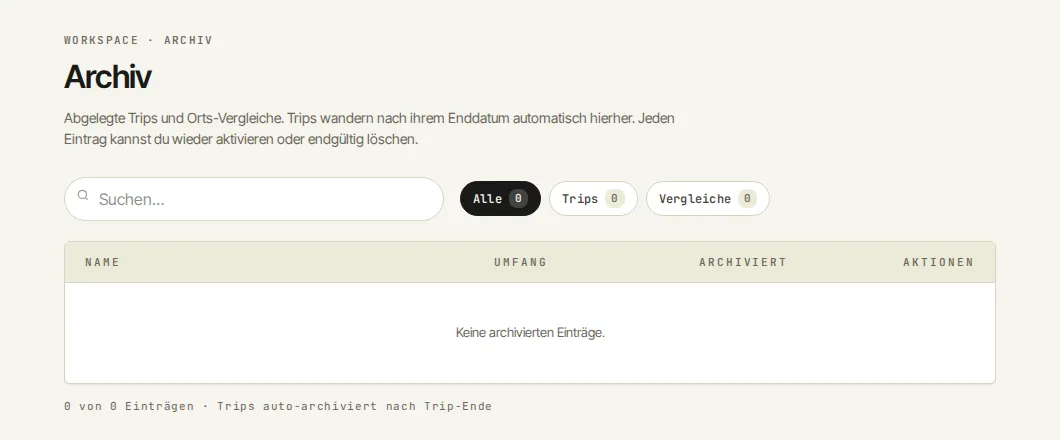
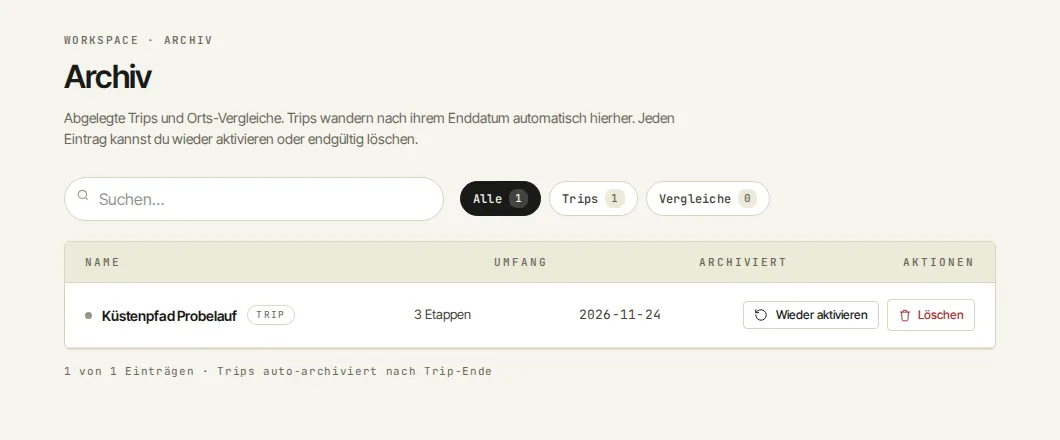
feat(#3327): Archiv-Trip im Pruefkonto-Seed, Archiv-Bild DE/EN neu
Seed legt den fiktiven Trip "Kuestenpfad Probelauf" (3 vergangene Etappen)
an und archiviert ihn genau einmal per PATCH /api/trips/{id}/state;
Folgelaeufe schreiben nichts, archived_at bleibt erhalten. Archiv-Bilder
DE/EN nach Seed-Lauf auf Staging neu aufgenommen, Alt-Texte und Runbooks
nachgezogen. Adversary VERIFIED (F001/F002 Textkorrektur).

Refs #3327

diff --git a/scripts/staging_pruefkonto_mockupdaten.py b/scripts/staging_pruefkonto_mockupdaten.py
@@ -58,6 +58,9 @@ _LIVE_SMS_SCHLUESSEL = "GZ_SEVEN_API_KEY"
 
 TRIP_ID = "gz2967-gr221-mallorca"
 TRIP_NAME = "GR221 Mallorca"
+# #3327: zweiter, frei erfundener Trip, der archiviert im Pruefkonto liegt (Archiv-Bild).
+ARCHIV_TRIP_ID = "gz2967-archiv-kuestenpfad"
+ARCHIV_TRIP_NAME = "Küstenpfad Probelauf"
 VORLAGE_NAME = "Mallorca Frühling"
 VERGLEICH_NAME = "Münsterland"
 # Fiktive, eindeutige Kanalwerte des Pruefkontos (kein Versand an echte Geraete).
@@ -112,6 +115,12 @@ _ETAPPEN = (
      ("Valldemossa", 39.69217, 2.57649, 420)),
     ("2026-02-26", ("Valldemossa", 39.69217, 2.57649, 420), (39.71919, 2.6108, 647),
      ("Deià", 39.74619, 2.64514, 150)),
+)
+# #3327: fiktive Etappen in der Vergangenheit (Datum, Start, Ziel).
+_ARCHIV_ETAPPEN = (
+    ("2026-06-12", ("Dünenhof", 54.1012, 8.6034, 4), ("Leuchtturm", 54.1265, 8.6511, 12)),
+    ("2026-06-13", ("Leuchtturm", 54.1265, 8.6511, 12), ("Deichkrug", 54.1508, 8.7023, 6)),
+    ("2026-06-14", ("Deichkrug", 54.1508, 8.7023, 6), ("Fährhafen", 54.1741, 8.7489, 3)),
 )
 _ORTE = (("gz2967-muenster", "Münster", 51.9607, 7.6261, 60),
          ("gz2967-telgte", "Telgte", 51.9819, 7.7856, 52),
@@ -257,6 +266,18 @@ def soll_trip() -> dict:
             _wegpunkt(sid, 1, *von), _wegpunkt(sid, 2, f"Anstieg {von[0]}", *mitte),
             _wegpunkt(sid, 3, *bis)]})
     return {"id": TRIP_ID, "name": TRIP_NAME, "region": "Mallorca", "stages": etappen}
+
+
+def soll_archiv_trip() -> dict:
+    """#3327: fiktiver Archiv-Trip ohne Kanal-/Wetter-/Tabellenkonfiguration. Nie
+    ``archived_at`` im Soll: ``_merge`` uebernimmt es aus dem Ist-Stand (PUT reaktiviert nicht)."""
+    etappen = []
+    for n, (datum, von, bis) in enumerate(_ARCHIV_ETAPPEN, start=1):
+        sid = f"{ARCHIV_TRIP_ID}-e{n}"
+        etappen.append({"id": sid, "name": f"{von[0]} → {bis[0]}", "date": datum,
+                        "waypoints": [_wegpunkt(sid, 1, *von), _wegpunkt(sid, 2, *bis)]})
+    return {"id": ARCHIV_TRIP_ID, "name": ARCHIV_TRIP_NAME, "region": "Nordsee (fiktiv)",
+            "stages": etappen}
 
 
 def soll_kanalauswahl_trip() -> dict:
@@ -407,6 +428,12 @@ class PruefkontoSeed:
             return ist
         return self._rufe("PUT", f"{sammlung}/{soll['id']}", _merge(ist, soll))[1]
 
+    def sichere_archiviert(self, trip: dict) -> None:
+        """#3327: nur ohne Archivdatum archivieren (Body ``archived``, nicht ``state``)."""
+        if trip.get("archived_at"):
+            return
+        self._rufe("PATCH", f"/api/trips/{trip['id']}/state", {"archived": True})
+
     def sichere_wetter(self, trip: dict) -> dict:
         ist = trip.get("display_config") or {}
         soll = soll_wetter()
@@ -511,6 +538,7 @@ def fuehre_seed(seed: PruefkontoSeed, nutzer: str, passwort: str) -> tuple[str, 
     empfaenger = soll_empfaenger(profil)  # vor jedem Schreibzugriff
     seed.sichere_tarif()  # vor den Datensaetzen: sonst Free-Quote (409 quota_exceeded)
     trip = seed.sichere_datensatz("/api/trips", {**soll_trip(), **soll_kanalauswahl_trip()})
+    seed.sichere_archiviert(seed.sichere_datensatz("/api/trips", soll_archiv_trip()))
     seed.sichere_vorlage(seed.sichere_wetter(trip))
     orte = [seed.sichere_datensatz("/api/locations", {
         "id": oid, "name": name, "lat": lat, "lon": lon, "elevation_m": hoehe,

diff --git a/tests/tdd/test_staging_pruefkonto_mockupdaten.py b/tests/tdd/test_staging_pruefkonto_mockupdaten.py
@@ -301,8 +301,11 @@ class _Fake:
             if (teile[1] == "trips" and methode == "PUT" and len(teile) == 3
                     and (ablage.get(teile[2]) or {}).get("archived_at")
                     and not body.get("archived_at") and _quote_voll(konto, "trips")):
-                # trip.go:293: PUT ohne archived_at auf archivierten Trip = Reaktivierung,
-                # Quote geprueft (der PUT selbst ersetzt und entfernt archived_at).
+                # Bewusst STRENGER als Go: der echte PUT (UpdateTripHandler) merged auf den
+                # Bestand, sein DTO kennt kein archived_at, er reaktiviert nie. Reaktivieren
+                # kann nur der POST-Upsert (CreateTripHandler, `reaktiviert := ...`, mit
+                # Quoten-Pruefung). Der Fake ersetzt beim PUT und entfernt archived_at; so
+                # faellt auf, falls der Seed archived_at je aus dem Soll verliert.
                 return 409, {"error": "quota_exceeded"}
             if teile[1] == "trips" and len(teile) == 4 and teile[3] == "weather-config":
                 trip = ablage.get(teile[2])
@@ -1321,7 +1324,8 @@ def test_3151_ac3_zweiter_lauf_schreibfrei_trotz_go_ableitung_von_alert_channels
     mod = _modul()
     server, env = fake
     assert _lauf(mod, server, env) == 0
-    (trip,) = _seed_daten(server)["trips"].values()
+    # #3327: zweiter (archivierter) Trip im Pruefkonto - den GR221-Trip per ID waehlen.
+    trip = _seed_daten(server)["trips"]["gz2967-gr221-mallorca"]
     (vgl,) = _seed_daten(server)["compare"].values()
     # Voraussetzung: Kanalauswahl steht (sonst waere "schreibfrei" trivial)
     assert vgl.get("alert_channel_thresholds") == SCHWELLEN_3151

diff --git a/docs/specs/modules/feat_3327_archiv_seed.md b/docs/specs/modules/feat_3327_archiv_seed.md
@@ -28,7 +28,7 @@ Das Bild „Archiv“ auf der Funktionsseite zeigt heute ein leeres Archiv und e
 > **Querschnitts-Prüfpunkte:**
 > - **Trip/Orts-Vergleich-Teilung:** n/a. Es entsteht kein UI-Baustein; ein Prüfwerkzeug füllt das Prüfkonto, die Archiv-Seite bleibt unverändert.
 > - **Mandantentrennung:** Der Seed schreibt nur unter der Anmeldung des eigenen Prüfkontos und nur auf die feste eigene ID `gz2967-archiv-kuestenpfad`; `user_id` kommt aus dem Auth-Kontext der API, nie `"default"`. Der bestehende Zwei-Nutzer-Test des Seeds (AC-10 aus #2967) deckt den neuen Trip mit ab.
-> - **Kanäle:** Kein Briefing- oder Alarm-Inhalt ändert sich. Der Archiv-Trip bekommt bewusst keine Kanal- und keine Wetterkonfiguration und erzeugt, weil archiviert und in der Vergangenheit liegend, keinen Versand über E-Mail, Telegram, SMS oder Premium-SMS.
+> - **Kanäle:** Kein Briefing- oder Alarm-Inhalt ändert sich. Der Seed sendet für den Archiv-Trip bewusst keine Wetter-, Kanal- oder Tabellenkonfiguration; Go vergibt bei der Neuanlage ohne `display_config` die Standardvorlage des Nutzers (#2794), das ist folgenlos. Der Trip erzeugt, weil archiviert und in der Vergangenheit liegend, keinen Versand über E-Mail, Telegram, SMS oder Premium-SMS.
 
 ## Estimated Scope
 
@@ -43,7 +43,7 @@ Das Bild „Archiv“ auf der Funktionsseite zeigt heute ein leeres Archiv und e
 | File | Change Type | Description |
 |------|-------------|-------------|
 | scripts/staging_pruefkonto_mockupdaten.py | MODIFY | Konstanten und `soll_archiv_trip()` (fiktiver Trip, 3 Etappen in der Vergangenheit); `sichere_archiviert` (PATCH nur, wenn `archived_at` fehlt); Aufruf in `fuehre_seed` nach Tarif und Haupt-Trip. Ausgabe `ELEMENTLISTE_TRIP_ID` bleibt der GR221-Trip |
-| tests/tdd/test_staging_pruefkonto_mockupdaten.py | MODIFY | Fake-Go-API: Route `PATCH /api/trips/{id}/state` (`{"archived": true}` setzt `archived_at`), PUT ohne `archived_at` auf archivierten Trip reaktiviert wie in Go; neue Tests zu AC-1 bis AC-4 |
+| tests/tdd/test_staging_pruefkonto_mockupdaten.py | MODIFY | Fake-Go-API: Route `PATCH /api/trips/{id}/state` (`{"archived": true}` setzt `archived_at`), PUT ersetzt und entfernt dabei `archived_at` (bewusst strenger als Go, s. u.); neue Tests zu AC-1 bis AC-4 |
 | frontend/src/lib/i18n/messages/de/funktionen.json | MODIFY | Alt-Text `funktionen.bild.archiv.alt` beschreibt den Bildinhalt (ein archivierter Trip) |
 | frontend/src/lib/i18n/messages/en/funktionen.json | MODIFY | Englischer Alt-Text `funktionen.bild.archiv.alt`, gleicher Inhalt |
 | frontend/static/funktionen/archiv.webp | MODIFY | Neu aufgenommen per `funktionen_screenshots.py --nur archiv` (DE) |
@@ -65,7 +65,7 @@ Das Bild „Archiv“ auf der Funktionsseite zeigt heute ein leeres Archiv und e
 |--------|------|---------|
 | `scripts/staging_pruefkonto_mockupdaten.py` (`sichere_datensatz`, `_merge`, `fuehre_seed`) | Bestand | Upsert nach festem ID-Muster `gz2967-…`; `_merge` = `{**ist, **soll}` erhält `archived_at` |
 | `tests/tdd/test_staging_pruefkonto_mockupdaten.py` (Fake-Go-API, `_trip_merge_wie_go`) | Bestand | Zustandsbehafteter Fake, Nachbildung des Go-Verhaltens (kein Mock-Theater) |
-| `internal/handler/trip.go` (`UpdateTripStateHandler` Z. 625–700, PUT Z. 293) | Quelle | PATCH mit `{"archived": true}` setzt `archived_at`; PUT ohne `archived_at` auf archivierten Trip reaktiviert (Quote geprüft) |
+| `internal/handler/trip.go` (`UpdateTripStateHandler` Z. 625–700, `CreateTripHandler` Z. 293, `UpdateTripHandler` Z. 393) | Quelle | PATCH mit `{"archived": true}` setzt `archived_at`; nur der POST-Upsert ohne `archived_at` auf einen archivierten Trip reaktiviert (Quote geprüft, Z. 293); der PUT merged auf den Bestand, sein DTO kennt kein `archived_at`, er reaktiviert nie |
 | `frontend/src/routes/archiv/+page.server.ts` | Quelle | Archiv listet Trips mit `archived_at`, zeigt Name, „N Etappen“, Datum |
 | `frontend/src/routes/trips/+page.server.ts` | Quelle | Trip-Liste blendet archivierte Trips aus |
 | Briefing-Auswahl (`next_briefing.py`, `loader.py`, `scheduler_dispatch_service.py`) | Quelle | Archivierte Trips werden übersprungen, also kein Versand |
@@ -83,7 +83,7 @@ Das Bild „Archiv“ auf der Funktionsseite zeigt heute ein leeres Archiv und e
 
 **Ablauf in `fuehre_seed` (nach Tarif und Haupt-Trip):**
 
-1. `sichere_datensatz("/api/trips", soll_archiv_trip())`: GET 404 ⇒ POST; sonst PUT nur bei Abweichung. Das `soll` enthält nie `archived_at`, `_merge` übernimmt es aus dem Ist-Stand. So reaktiviert ein PUT den Trip nicht (Go `trip.go` Z. 293 würde sonst reaktivieren).
+1. `sichere_datensatz("/api/trips", soll_archiv_trip())`: GET 404 ⇒ POST; sonst PUT nur bei Abweichung. Das `soll` enthält nie `archived_at`, `_merge` übernimmt es aus dem Ist-Stand. Der echte Go-PUT (`UpdateTripHandler`) merged ohnehin auf den Bestand und reaktiviert nie; reaktivieren kann nur der POST-Upsert (`trip.go` Z. 293), den der Seed für einen bestehenden Trip nicht nutzt. Der Erhalt von `archived_at` im Soll schützt gegen den strengeren Fake (s. u.) und gegen einen künftigen Wechsel auf ersetzendes Schreiben.
 2. `sichere_archiviert(trip)`: fehlt `archived_at` im Ergebnis, dann `PATCH /api/trips/{id}/state` mit Body `{"archived": true}` (nicht `{"state": …}`, das wirkt nicht). Ist `archived_at` gesetzt, passiert nichts. Das Archivdatum ist der Tag des ersten Seed-Laufs und bleibt danach stabil.
 3. Rückgabe und stdout von `main` bleiben unverändert (`ELEMENTLISTE_TRIP_ID` = GR221).
 
@@ -132,7 +132,7 @@ Das Bild „Archiv“ auf der Funktionsseite zeigt heute ein leeres Archiv und e
 - [ ] GIVEN Archiv-Trip archiviert WHEN Trip-Liste und fällige Briefings ermittelt werden THEN Trip fehlt in beiden (AC-5).
 - [ ] GIVEN zwei Nutzer im Fake-Server WHEN Seed als Prüfkonto läuft THEN der Archiv-Trip entsteht nur beim Prüfkonto (Erweiterung des Zwei-Nutzer-Tests).
 
-Die Fake-Go-API erhält dazu die Route `PATCH /api/trips/{id}/state` und das Go-Verhalten „PUT ohne `archived_at` auf archivierten Trip reaktiviert“; die Tests laufen ohne Mock-Theater gegen diesen zustandsbehafteten Fake.
+Die Fake-Go-API erhält dazu die Route `PATCH /api/trips/{id}/state` und ein PUT, der ersetzt und `archived_at` dabei entfernt. Das ist bewusst strenger als Go (der echte PUT merged und reaktiviert nie; reaktivieren kann nur der POST-Upsert): verlöre der Seed `archived_at` je aus dem Soll, würde ein Test rot. Die Tests laufen ohne Mock-Theater gegen diesen zustandsbehafteten Fake.
 
 ### Staging-Nachweis (E2E-Phase)
 
@@ -165,3 +165,4 @@ Der Seed wird nur von Hand gestartet; es gibt keinen Cronjob und keinen Dauerdie
 ## Changelog
 
 - 2026-11-24: Initial spec created (Issue #3327, Teil von #3318)
+- 2026-11-24: Adversary-Befunde F001/F002 Text korrigiert (PUT reaktiviert in Go nie, nur der POST-Upsert; Fake ist bewusst strenger. „Keine Wetterkonfiguration“ präzisiert: Seed sendet keine, Go vergibt bei Neuanlage die Standardvorlage, #2794)

diff --git a/docs/runbooks/funktionen_screenshots.md b/docs/runbooks/funktionen_screenshots.md
@@ -68,7 +68,7 @@ Jedes Bild in DE und EN geöffnet und angesehen. Ergebnis: keine echten Personen
 | `trip-hub` | Trip GR221 Mallorca (Seed), Etappen Port d'Andratx → Estellencs …, Wetter, Briefings | nur Seed-Daten |
 | `trip-wetter` | Reiter Wetter, Vorlage Alpen-Trekking, Schwellen | nur Seed-Daten |
 | `trip-zustellung` | Zeiten, Laufzeit, Kanaltabelle | Adresse als `wanderer@beispiel.invalid`, Nummer als `+49 ••• •••••••` maskiert |
-| `archiv` | leeres Archiv mit Suche und Filtern | keine Personendaten |
+| `archiv` | Archiv mit einem Eintrag „Küstenpfad Probelauf“ (3 Etappen, Archivdatum), darüber Suche und Filter | keine Personendaten (fiktiver Seed-Trip) |
 | `ortsvergleich` | Ortsvergleich Münsterland (Münster, Telgte, Tecklenburg) | nur Seed-Daten |
 | `konto-kanaele` | Karte Kanäle: E-Mail, Handynummer, Telegram verbunden (…001, fiktive Chat-ID des Seeds) | Adresse und Nummer maskiert |
 | `konto-level` | Level Premium, Antrag, Mengen, SMS-Kontingent, Benachrichtigungen, Wetter-Modelle | Adresse maskiert, Telegram …001 (fiktiv) |
@@ -80,15 +80,14 @@ Jedes Bild in DE und EN geöffnet und angesehen. Ergebnis: keine echten Personen
 | `befehle-mail` | Abschnitt Antwort-Befehle der Briefing-Mail | keine Personendaten |
 | `briefing-quelle` | Fußzeile der Briefing-Mail (Zeit, openmeteo, arome_france) | keine Personendaten |
 
-Hinweise zum Bildinhalt: Das Archiv des Prüfkontos ist leer (der Seed legt keine archivierten Trips an);
-das Cockpit zeigt den beendeten Seed-Trip nicht, nur den Ortsvergleich. Die Alt-Texte beschreiben genau
-das, was zu sehen ist.
+Hinweise zum Bildinhalt: Das Cockpit zeigt den beendeten Seed-Trip nicht, nur den Ortsvergleich.
+Die Alt-Texte beschreiben genau das, was zu sehen ist.
 
-**Bekannte Schwäche Archiv-Bild:** Ein leeres Archiv zeigt die Funktion nur schwach. Ein fiktiver
-archivierter Trip ginge nur über eine Erweiterung des Prüfkonto-Seeds
-(`scripts/staging_pruefkonto_mockupdaten.py`): zweiter Trip, Archiv-Aufruf, Anpassung seiner eigenen
-Tests (`tests/tdd/test_staging_pruefkonto_mockupdaten.py`). Außerdem würde sich der Bestand des Kontos
-ändern, den der Elementlisten-Abgleich (#2913) gegen das Mockup liest. Das ist kein kleiner Umbau und
-wurde deshalb in #3319 nicht gemacht; die Erweiterung ist als eigenes Issue #3327 geplant. Wird der Seed später um einen archivierten Trip erweitert:
-`uv run python scripts/funktionen_screenshots.py --nur archiv`, Sichtprüfung, Alt-Text
-`funktionen.bild.archiv.alt` (DE/EN) anpassen.
+**Archiv-Bild und Seed-Trip (#3327):** Der Prüfkonto-Seed (`scripts/staging_pruefkonto_mockupdaten.py`)
+legt neben „GR221 Mallorca“ einen frei erfundenen zweiten Trip „Küstenpfad Probelauf“ (ID
+`gz2967-archiv-kuestenpfad`, 3 Etappen im Juni 2026) an und archiviert ihn genau einmal. Das
+Archivdatum ist der Tag des ersten Seed-Laufs und bleibt danach stabil. Reihenfolge: **erst Seed, dann
+Archiv-Bild**, also zuerst den Seed laut `docs/runbooks/staging_pruefkonto_seed.md`, danach
+`uv run python scripts/funktionen_screenshots.py --nur archiv` (und `--sprache en`), Sichtprüfung
+(ein Eintrag, „3 Etappen“, Datum lesbar) und Alt-Text `funktionen.bild.archiv.alt` (DE/EN) gegen das Bild
+prüfen. Ohne Seed-Lauf bleibt das Archiv leer und das Bild passt nicht zum Alt-Text.

diff --git a/docs/specs/modules/feat_2967_pruefkonto_mockupdaten.md b/docs/specs/modules/feat_2967_pruefkonto_mockupdaten.md
@@ -203,3 +203,4 @@ Das Skript wird nur von Hand vor einem Abgleich-Lauf gestartet und ist nicht gep
 - 2026-11-18: Initial spec created
 - 2026-11-18: Kanäle zurück in den Umfang: #3145 in #2967 aufgenommen; Seed verbindet E-Mail, SMS, Telegram, Premium-SMS und setzt Tarif/Zähler per Loopback (localhost:8091, Core-Auth); neue AC-11 bis AC-15; AC-9, Definition of Done, Scope, Test Plan und Known Limitations angepasst
 - 2026-11-19 (v1.2): PO-Entscheid: Live-Teil (AC-8, AC-9, Besitzerliste/Zählwächter, Schließen von #3145) als Kind-Issue #3151 von Epic #2913 abgespalten; Scope, Dependencies, Implementation Details, Definition of Done und Test Plan entsprechend gekürzt. Tech-Lead-Entscheid: Seed nutzt das eigene Staging-Prüfkonto `u-89f9fe2f` mit Zugang `GZ_PRUEFKONTO_USER`/`GZ_PRUEFKONTO_PASS` (nicht `GZ_AUTH_*`, das ist das Konto „default“); fehlt ein Schlüssel ⇒ Exit 2 vor jedem Aufruf (AC-7 ergänzt)
+- 2026-11-24: Seed legt zusätzlich den archivierten, fiktiven Trip „Küstenpfad Probelauf“ (`gz2967-archiv-kuestenpfad`, 3 Etappen in der Vergangenheit) an und archiviert ihn nur, wenn das Archivdatum fehlt; `ELEMENTLISTE_TRIP_ID` bleibt GR221 (#3327, Spec `feat_3327_archiv_seed.md`)

diff --git a/docs/runbooks/staging_pruefkonto_seed.md b/docs/runbooks/staging_pruefkonto_seed.md
@@ -17,6 +17,15 @@ den die Go-API im Premium-Tarif beim Eintragen der Nummer auslöst, läuft über
 Sandbox-Schlüssel von Staging (siehe „Sperre gegen echten SMS-Versand“), bestätigt wird mit dem
 Code der Staging-Route `staging-code`.
 
+Seit #3327 legt der Seed zusätzlich einen frei erfundenen, **archivierten** Trip „Küstenpfad
+Probelauf“ an (ID `gz2967-archiv-kuestenpfad`, Region „Nordsee (fiktiv)“, 3 Etappen am
+12.–14.06.2026, ohne Kanal-, Wetter- und Tabellenkonfiguration). Er wird nach Tarif und GR221-Trip
+angelegt und per `PATCH /api/trips/{id}/state` mit `{"archived": true}` genau einmal archiviert;
+weitere Läufe schreiben an ihm nichts, solange er archiviert ist und seinem Soll entspricht (ein PUT
+behält das Archivdatum). Er erscheint nur im Archiv, nicht in der Trip-Liste, und löst keinen Versand
+aus. `ELEMENTLISTE_TRIP_ID` bleibt der GR221-Trip. Reihenfolge für das Archiv-Bild der Funktionsseite:
+**erst Seed, dann Archiv-Bild** (`docs/runbooks/funktionen_screenshots.md`).
+
 ## Prüfkonto
 
 Eigenes Staging-Konto (Muster `GZ_E2E_EN_*`), Schlüssel in der Staging-`.env`:
